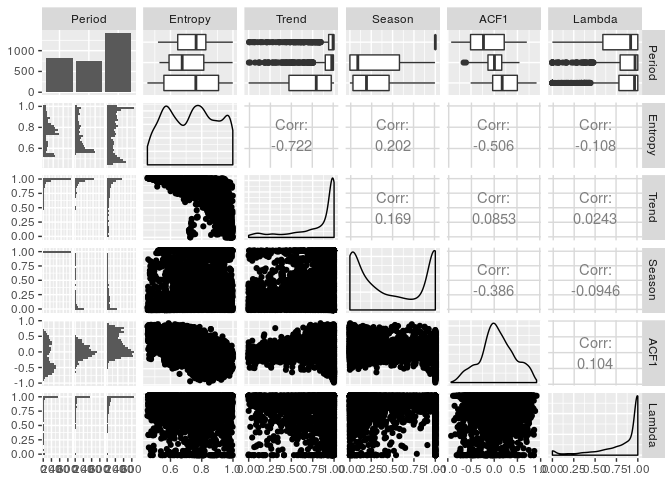
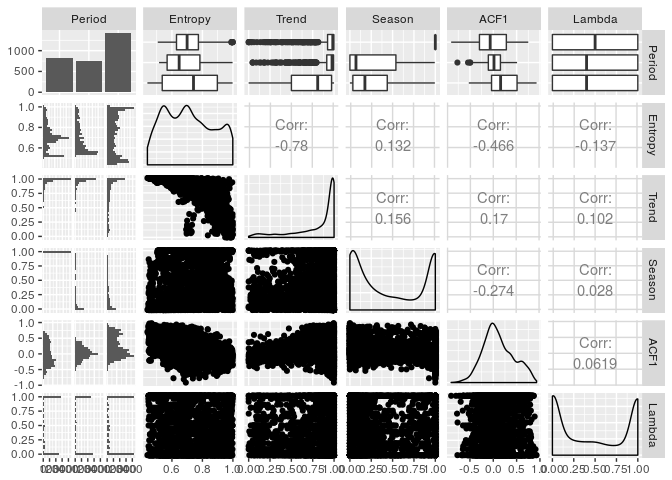
Updated M3data example. Still not matching KHS

diff --git a/README.md b/README.md
@@ -53,11 +53,17 @@ real_features <- cbind(
 library(tsfeatures)
 library(tidyverse)
 
-M3data <- purrr::map(Mcomp::M3, function(x)x$x)
+M3data <- purrr::map(Mcomp::M3, 
+  function(x){
+    tspx <- tsp(x$x)
+    ts(c(x$x,x$xx), start=tspx[1], frequency=tspx[3])
+  })
 Lambda <- function(x){
-  suppressWarnings(forecast::BoxCox.lambda(x, lower=0, upper=1))
+  suppressWarnings(forecast::BoxCox.lambda(x, lower=0, upper=1, method='loglik'))
 }
-khs <- tsfeatures(M3data, c("entropy","stl_features","frequency","Lambda")) %>% 
+khs <- cbind(
+  tsfeatures(M3data, c("entropy","stl_features","frequency")),
+  tsfeatures(M3data, "Lambda", scale=FALSE)) %>% 
   select(frequency, entropy, trend, season, acfremainder, Lambda) %>%
   replace_na(list(season=1)) %>%
   rename(
